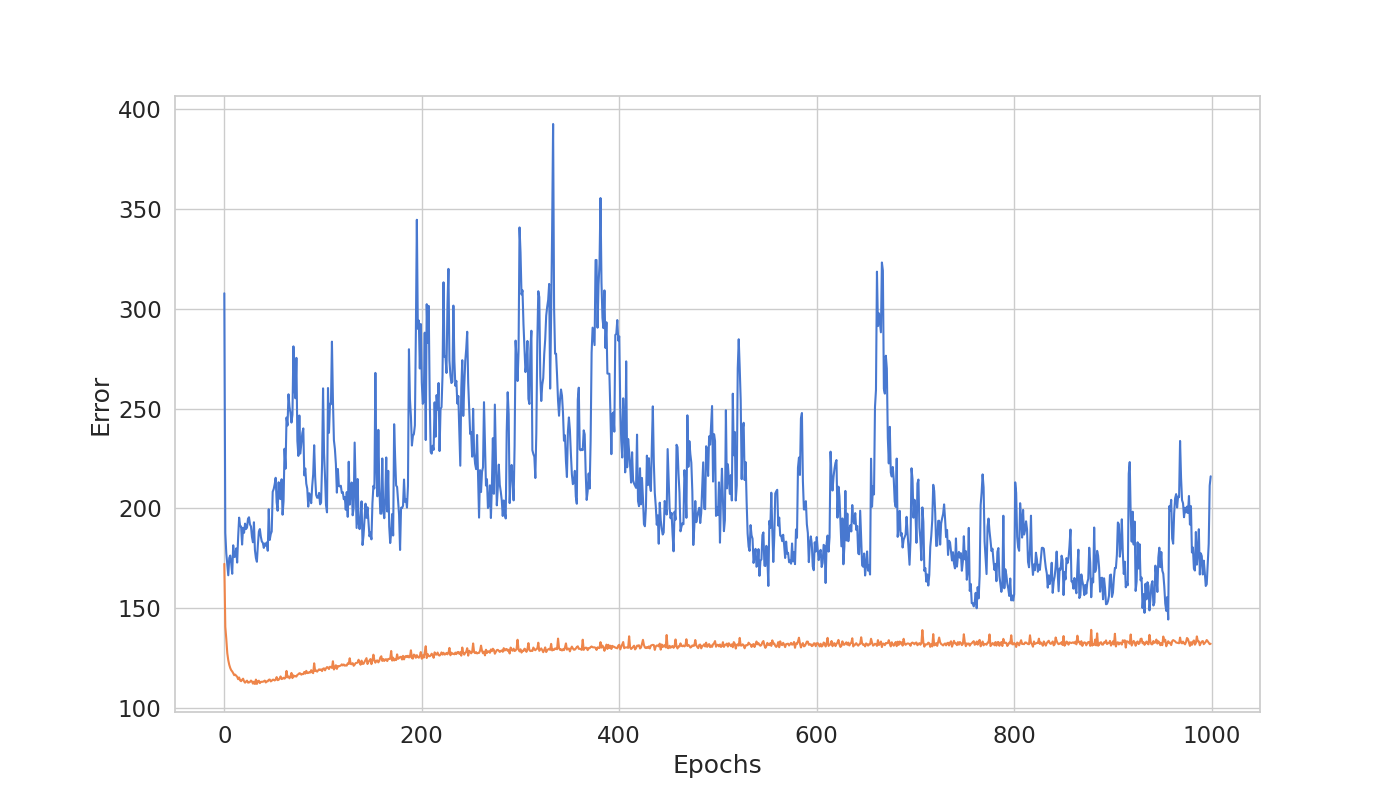
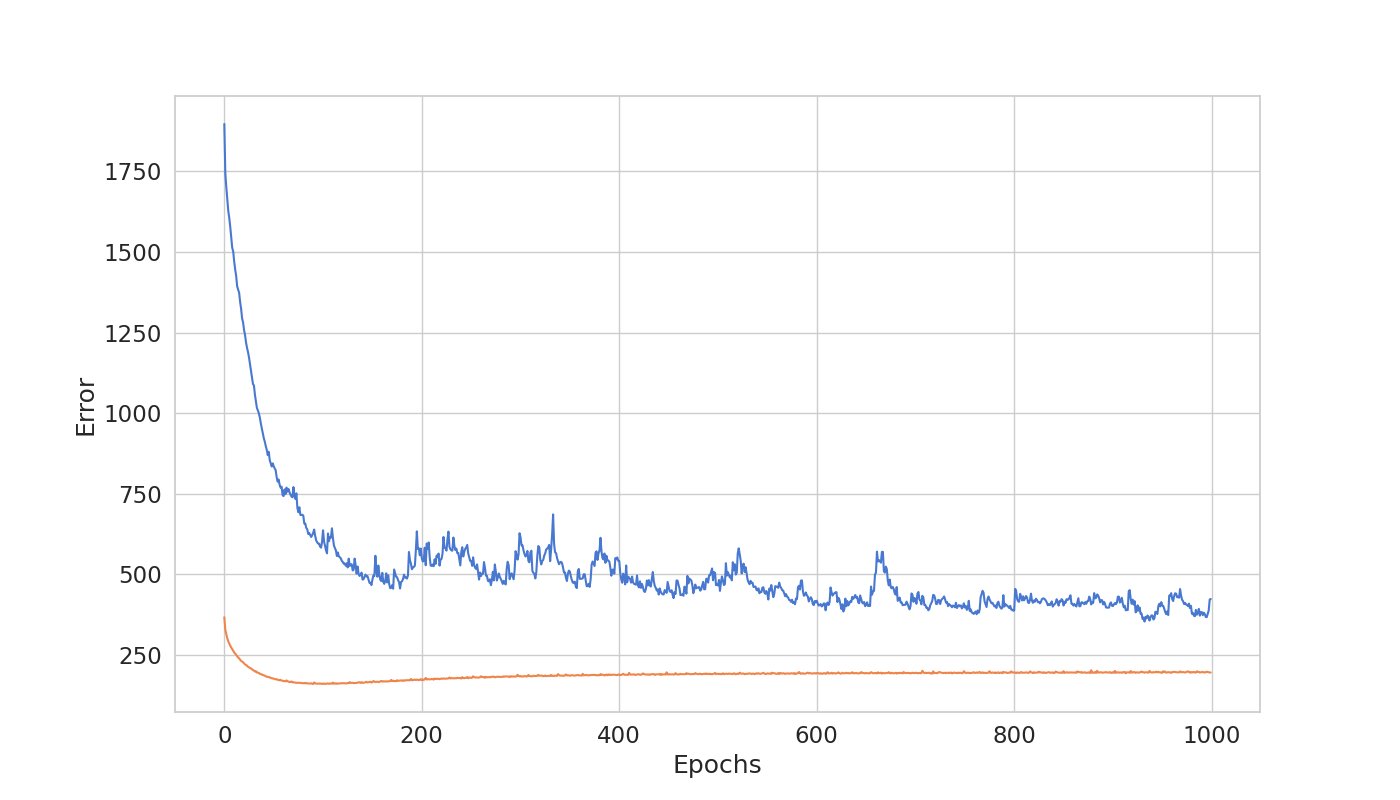
fixed all errors, working now with 88% acc

diff --git a/mnist_nn_classifier.py b/mnist_nn_classifier.py
@@ -74,7 +74,7 @@ X, y = read_data('./data/train-images-idx3-ubyte', './data/train-labels-idx1-uby
 X_train, X_test, y_train, y_test = train_test_split(X, y, test_size=0.2, random_state=42)
 
 nn = NNClassificationModel(n_classes=10, n_features=28*28, n_hidden_units=50,
-                            l2=0.5, l1=0.0, epochs=300, learning_rate=0.001,
+                            l2=0.5, l1=0.0, epochs=1000, learning_rate=0.001,
                             n_batches=25, random_seed=42)
 
 nn.fit(X_train, y_train)
@@ -93,7 +93,3 @@ plot_error(nn, 'with_scaled.png')
 
 print('Train Accuracy Scaled: %.2f%%' % (nn.score(X_train_scaled, y_train) * 100))
 print('Test Accuracy Scaled: %.2f%%' % (nn.score(X_test_scaled, y_test) * 100))
-
-y_hat = nn.predict_proba(X_test_scaled)
-
-plot_image_grid(X_test, y_test, y_hat)

diff --git a/nueral_net.py b/nueral_net.py
@@ -115,7 +115,7 @@ class NNClassificationModel:
         _, _, _, net_out, _ = self._forward(Xt)
         return self.mle(net_out.T)
 
-    def _predict_proba(self, X):
+    def predict_proba(self, X):
         Xt = X.copy()
         _, _, _, _, act_out = self._forward(Xt)
         return self.softmax(act_out.T)
